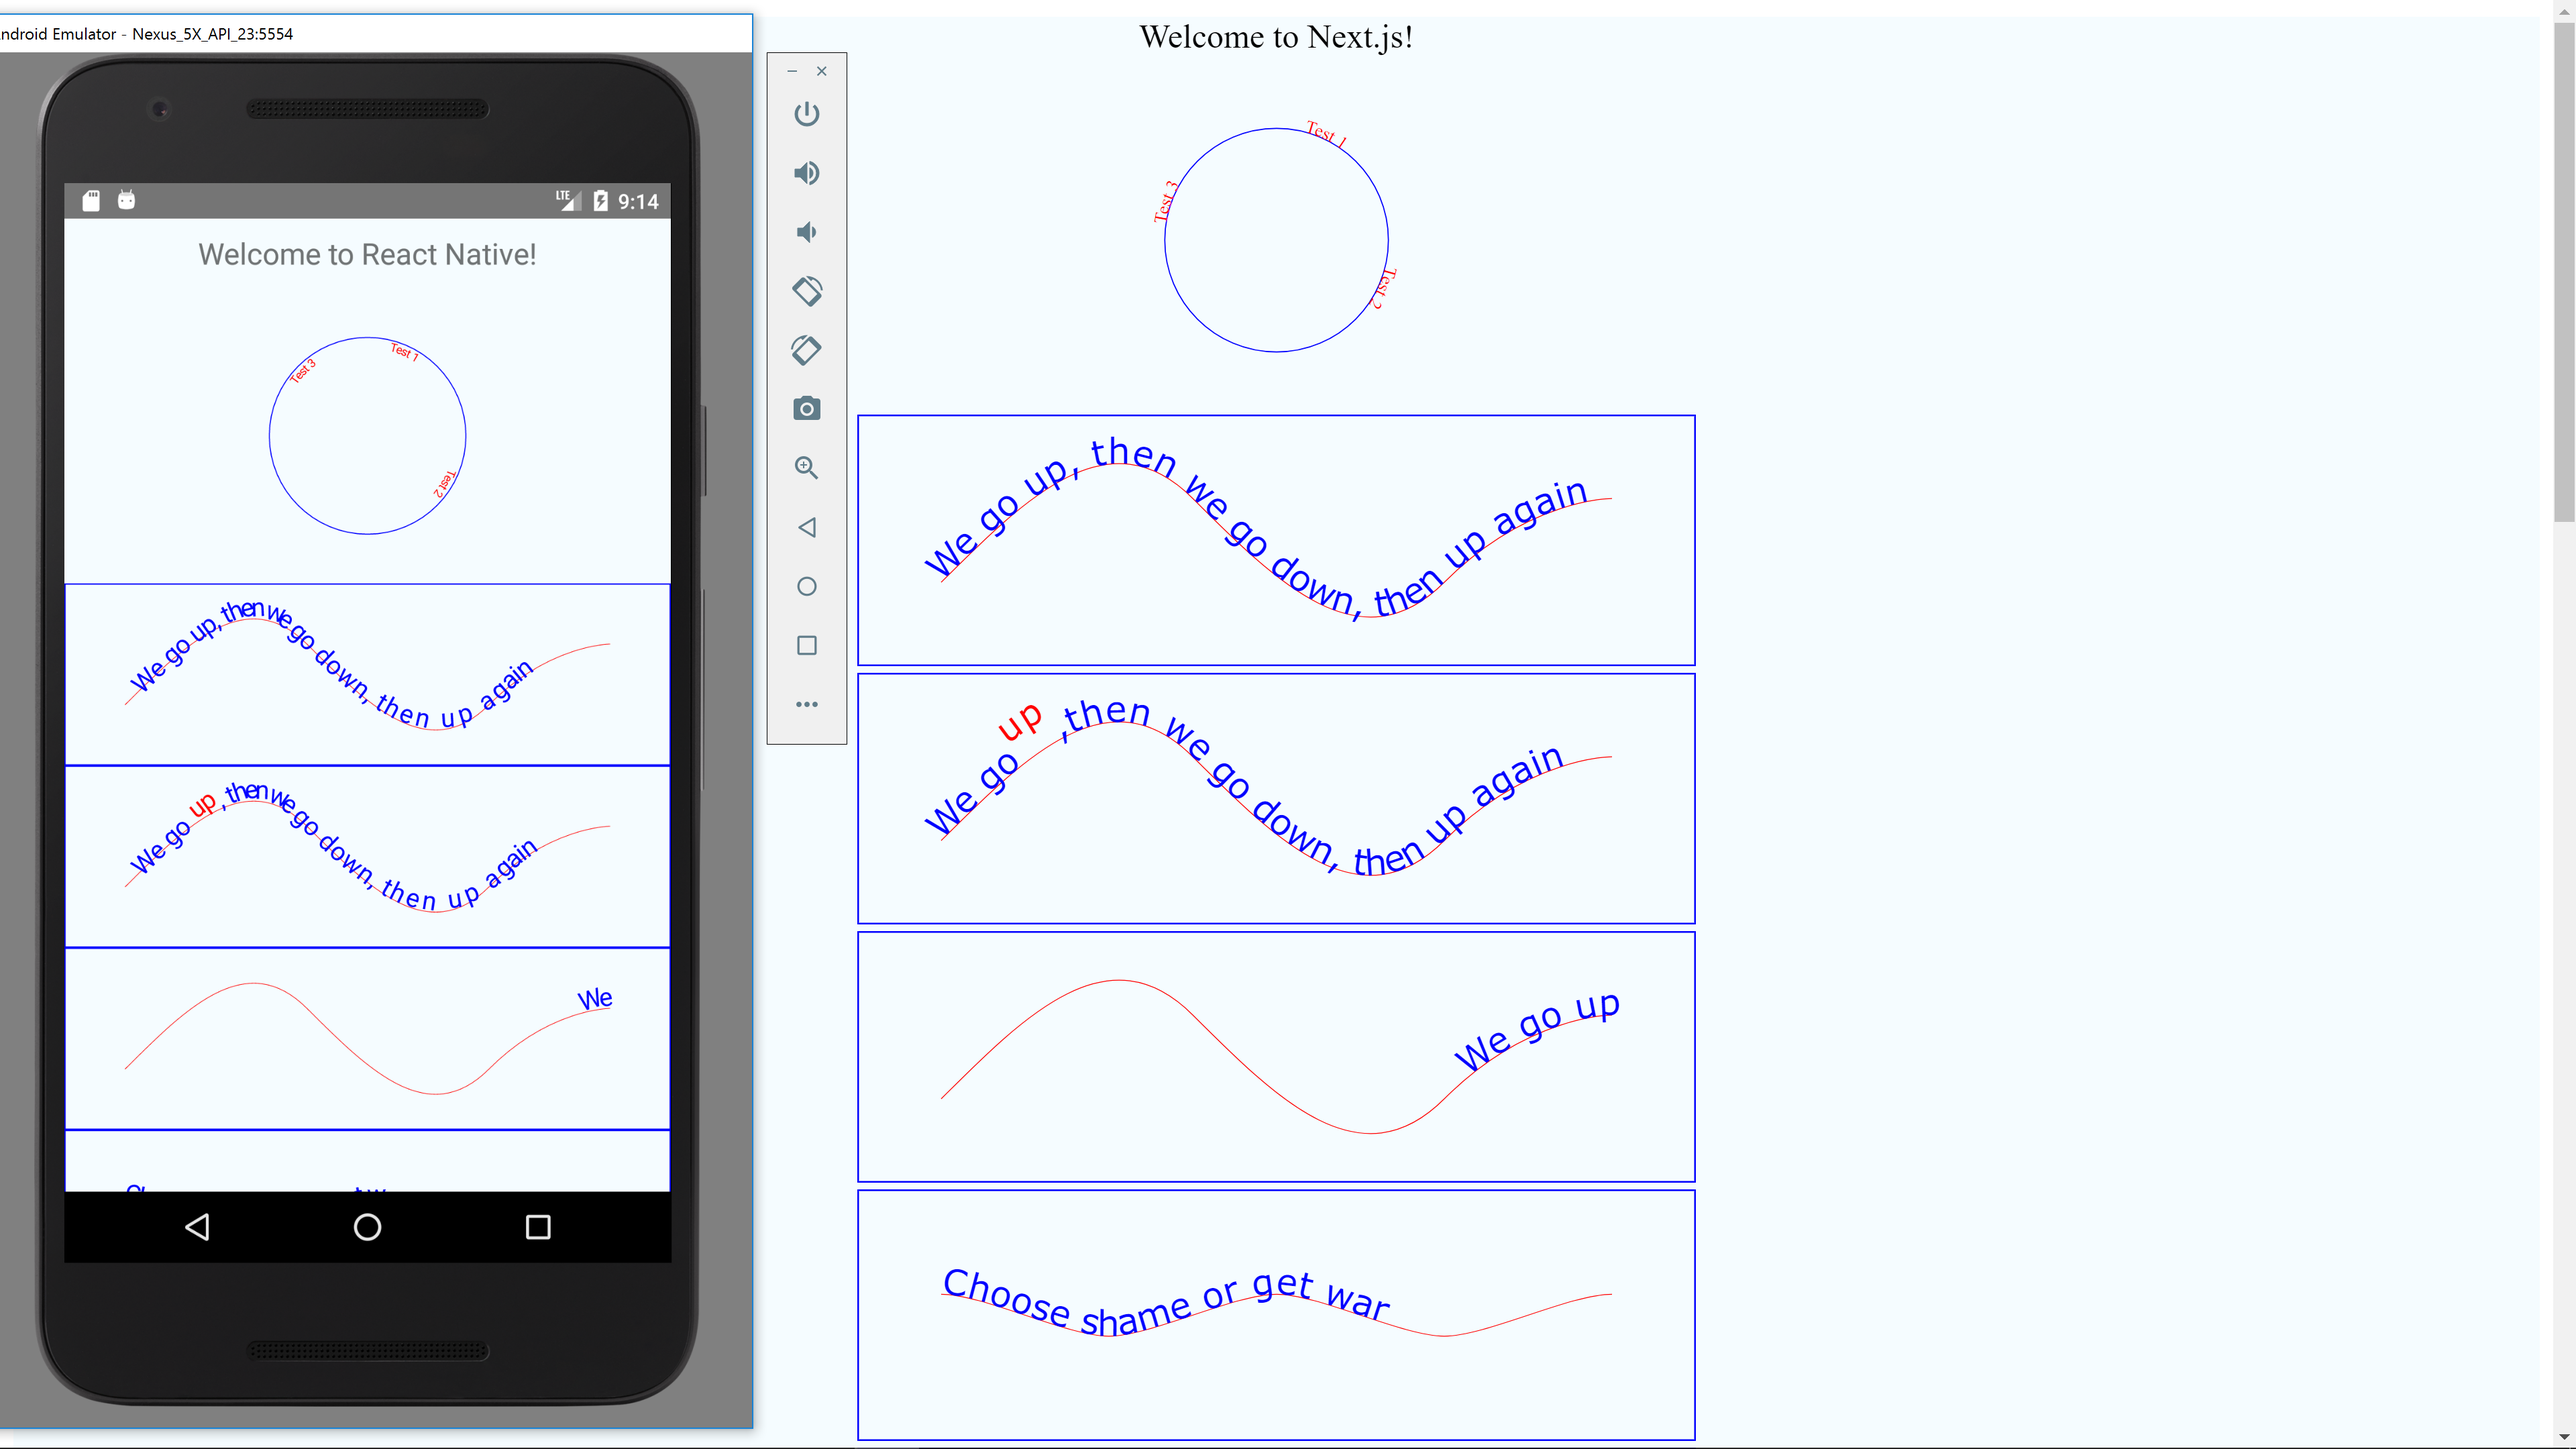
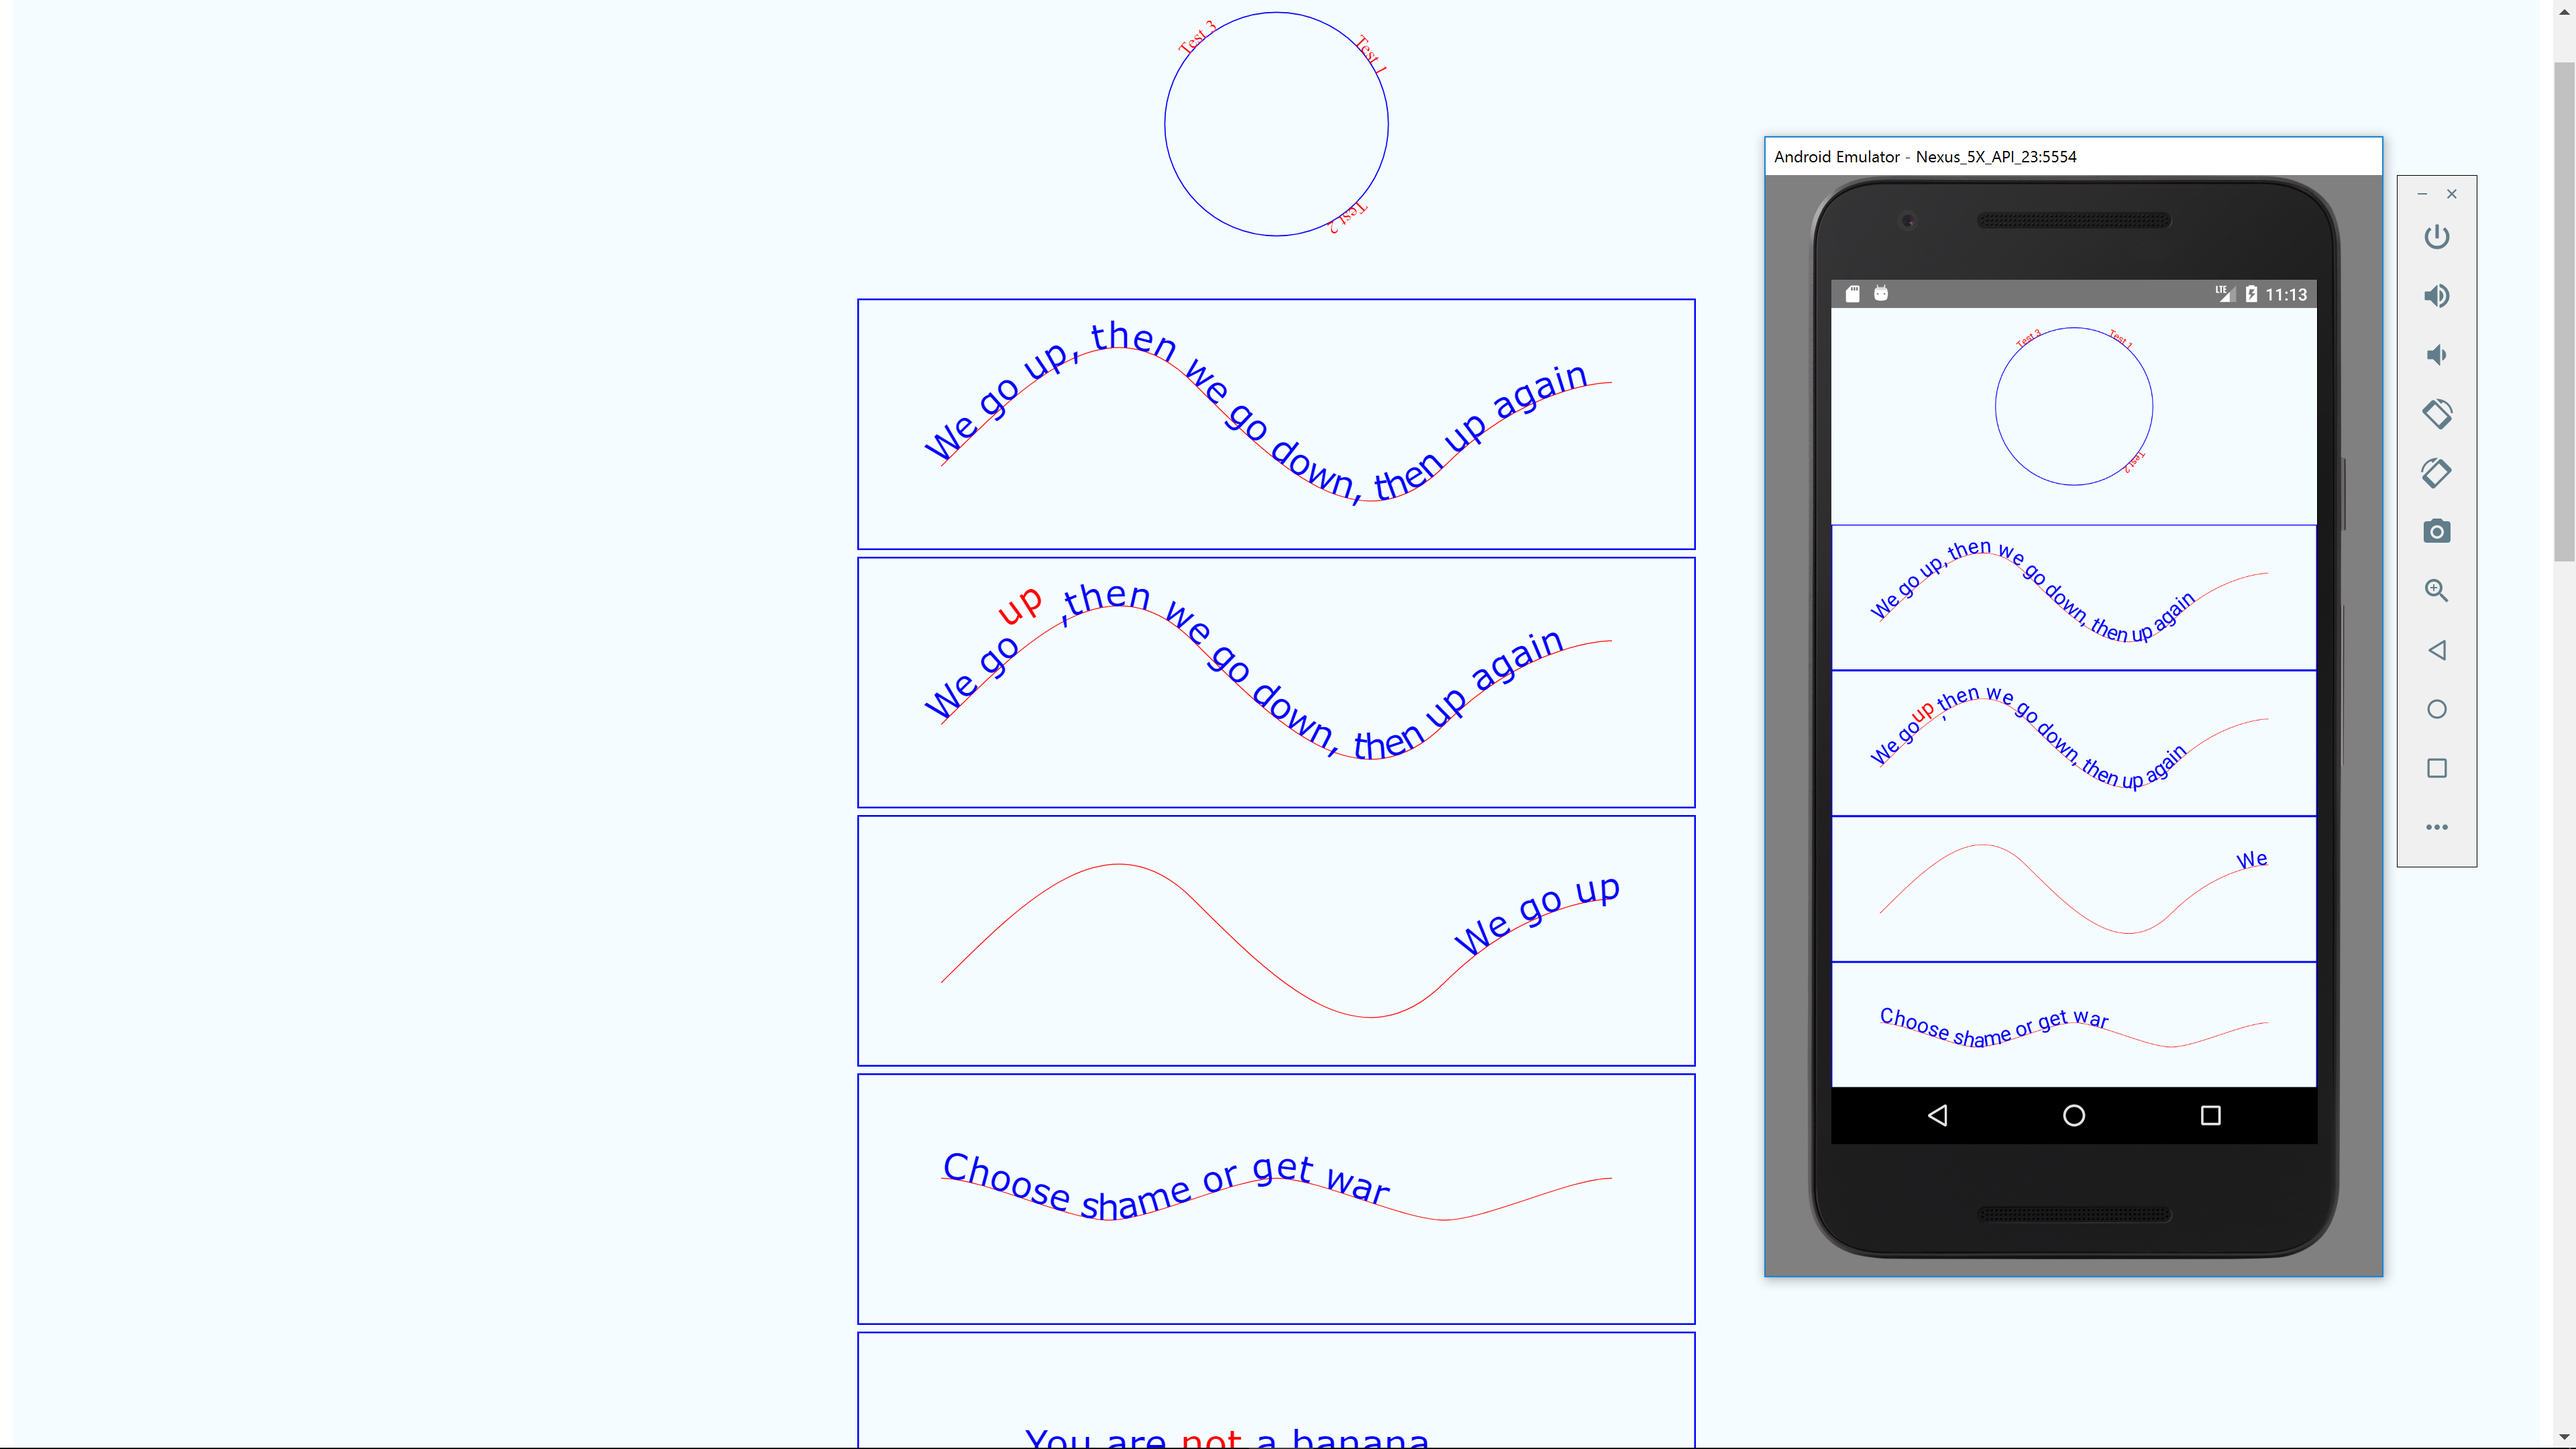
Update svgs and react-native-svg to latest fork branch.
Update screenshot.
Remove workaround for bug in react-native-svg from toap-circle.js

diff --git a/components/toap-circle.js b/components/toap-circle.js
@@ -3,9 +3,9 @@ import React from "react";
 import Svg, { Path, Defs, Text, TSpan, TextPath } from "svgs";
 
 const Label = ({ name, x }) => (
-  <Text x={x} y="12">
+  <Text x={x} y="0">
     <TextPath href="#textcurve">
-      <TSpan dy="0" fill="red">
+      <TSpan dx="0" dy="0" fill="red">
         {name}
       </TSpan>
     </TextPath>
